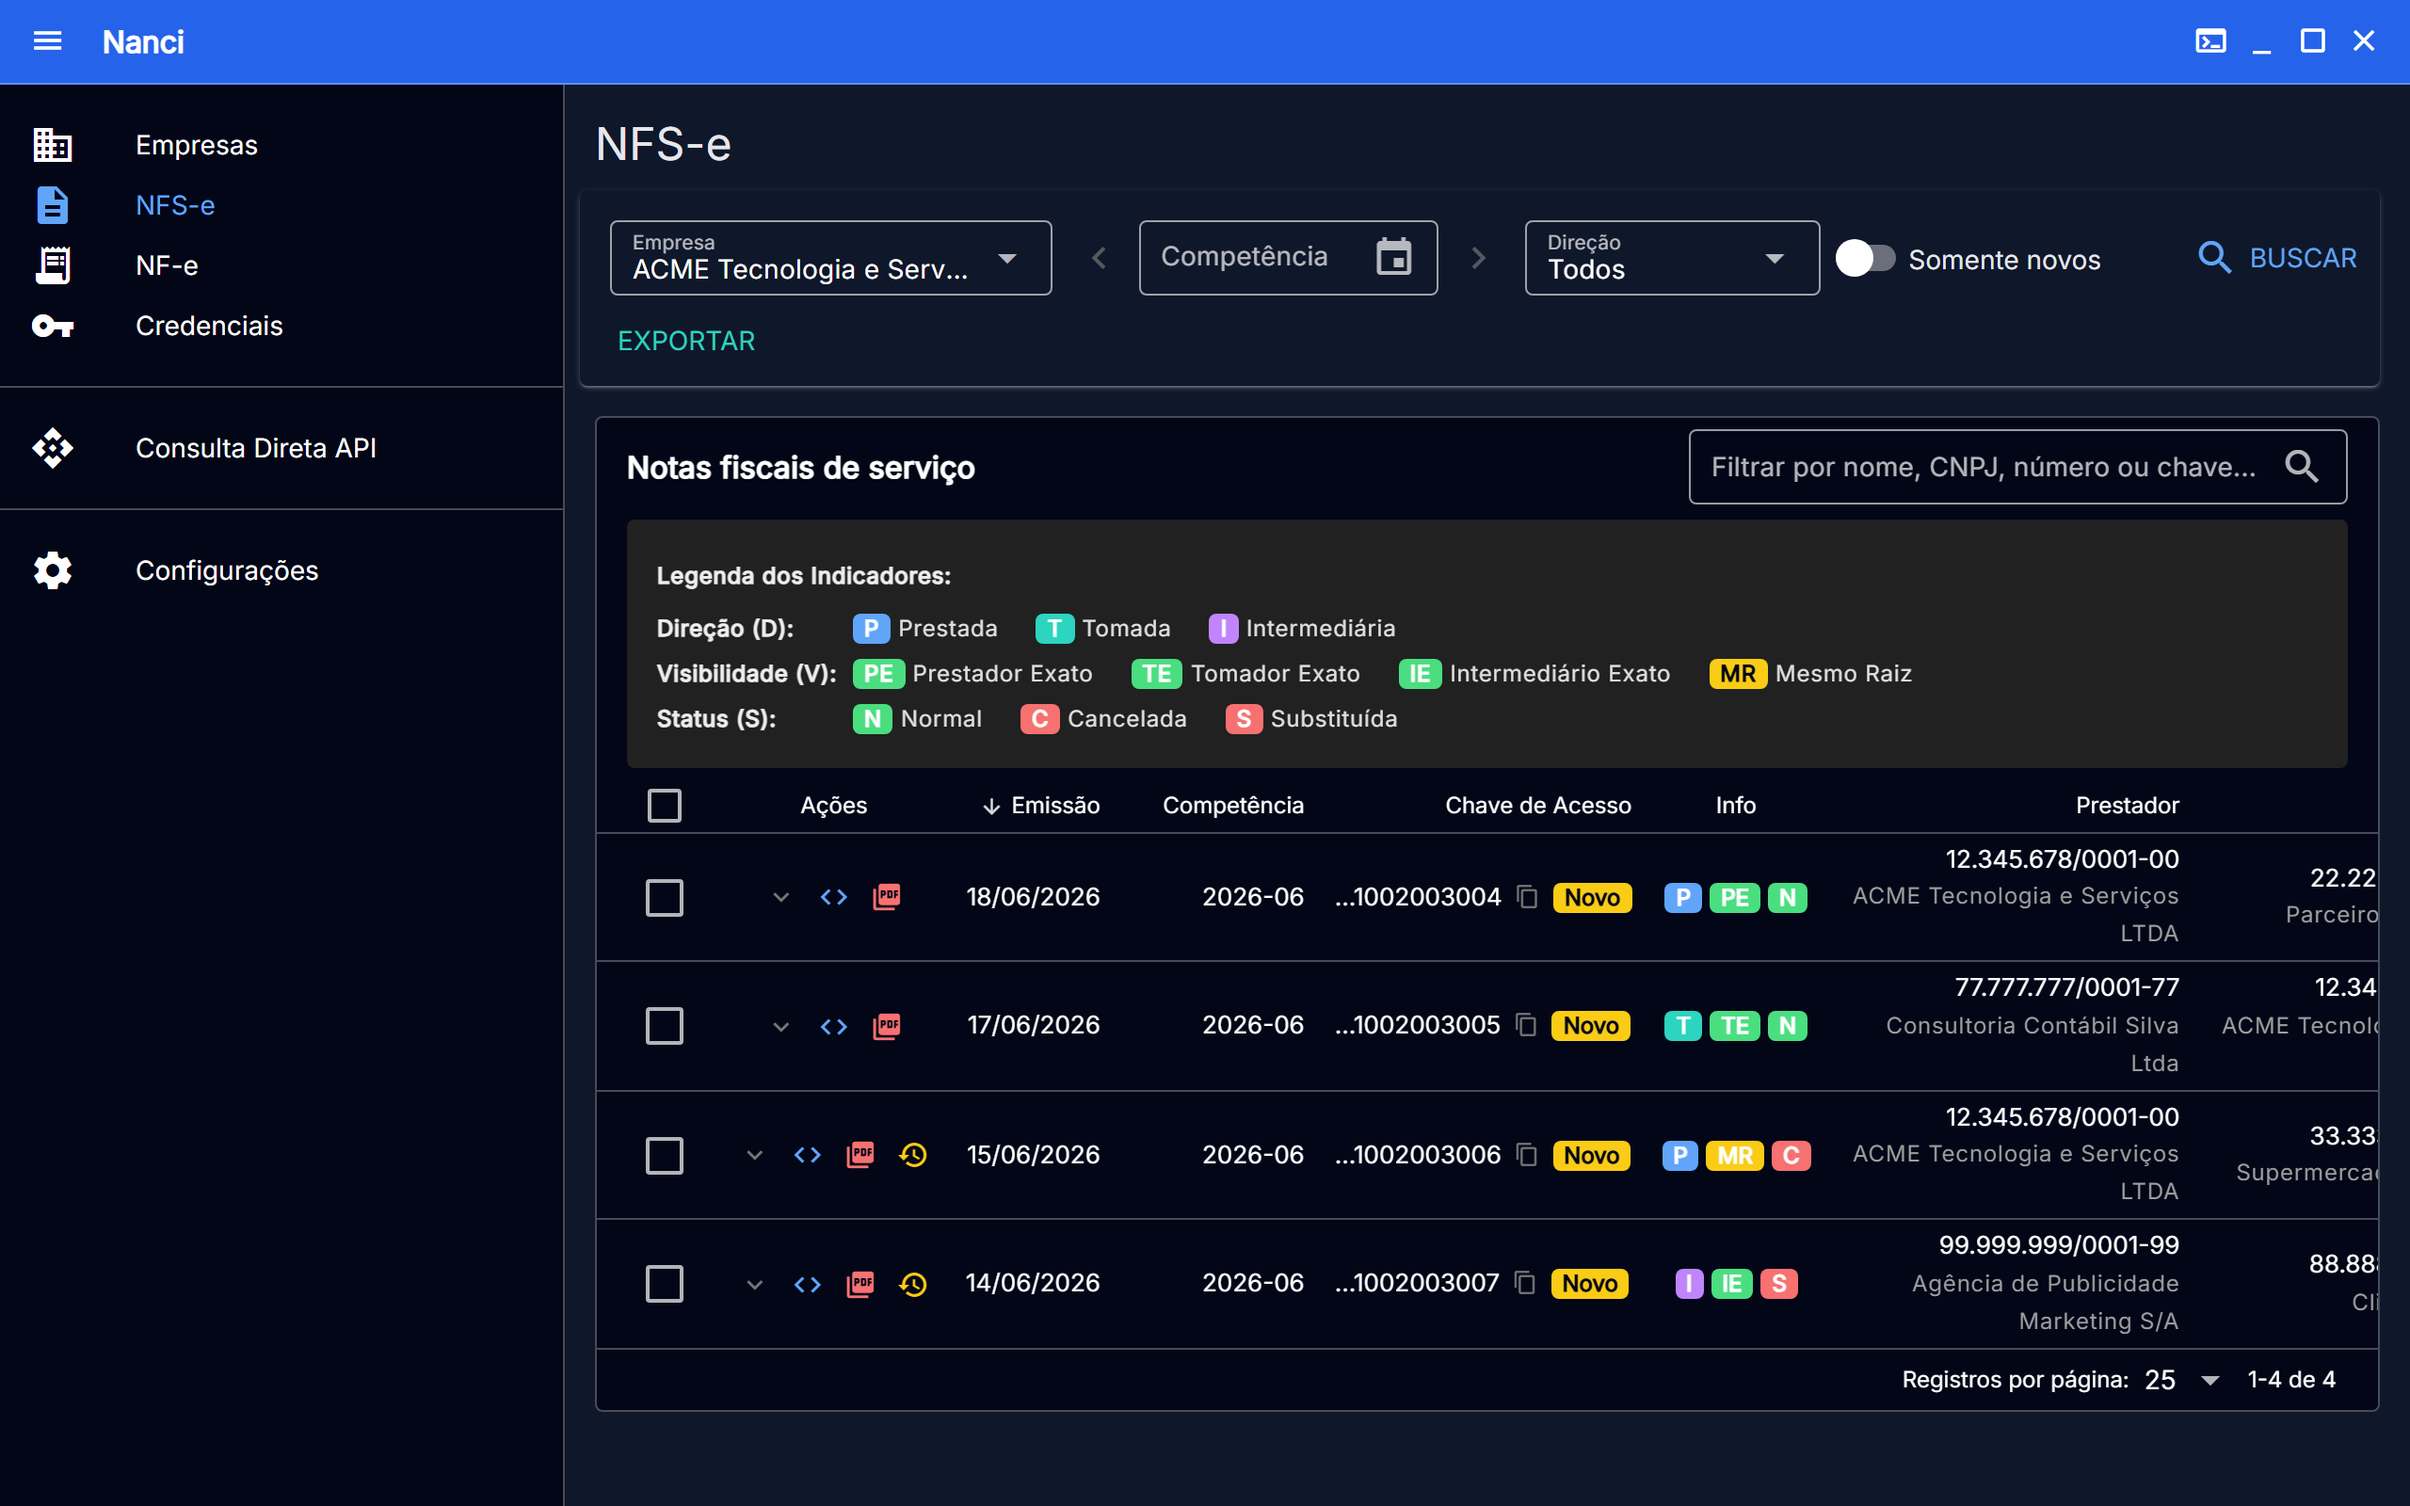
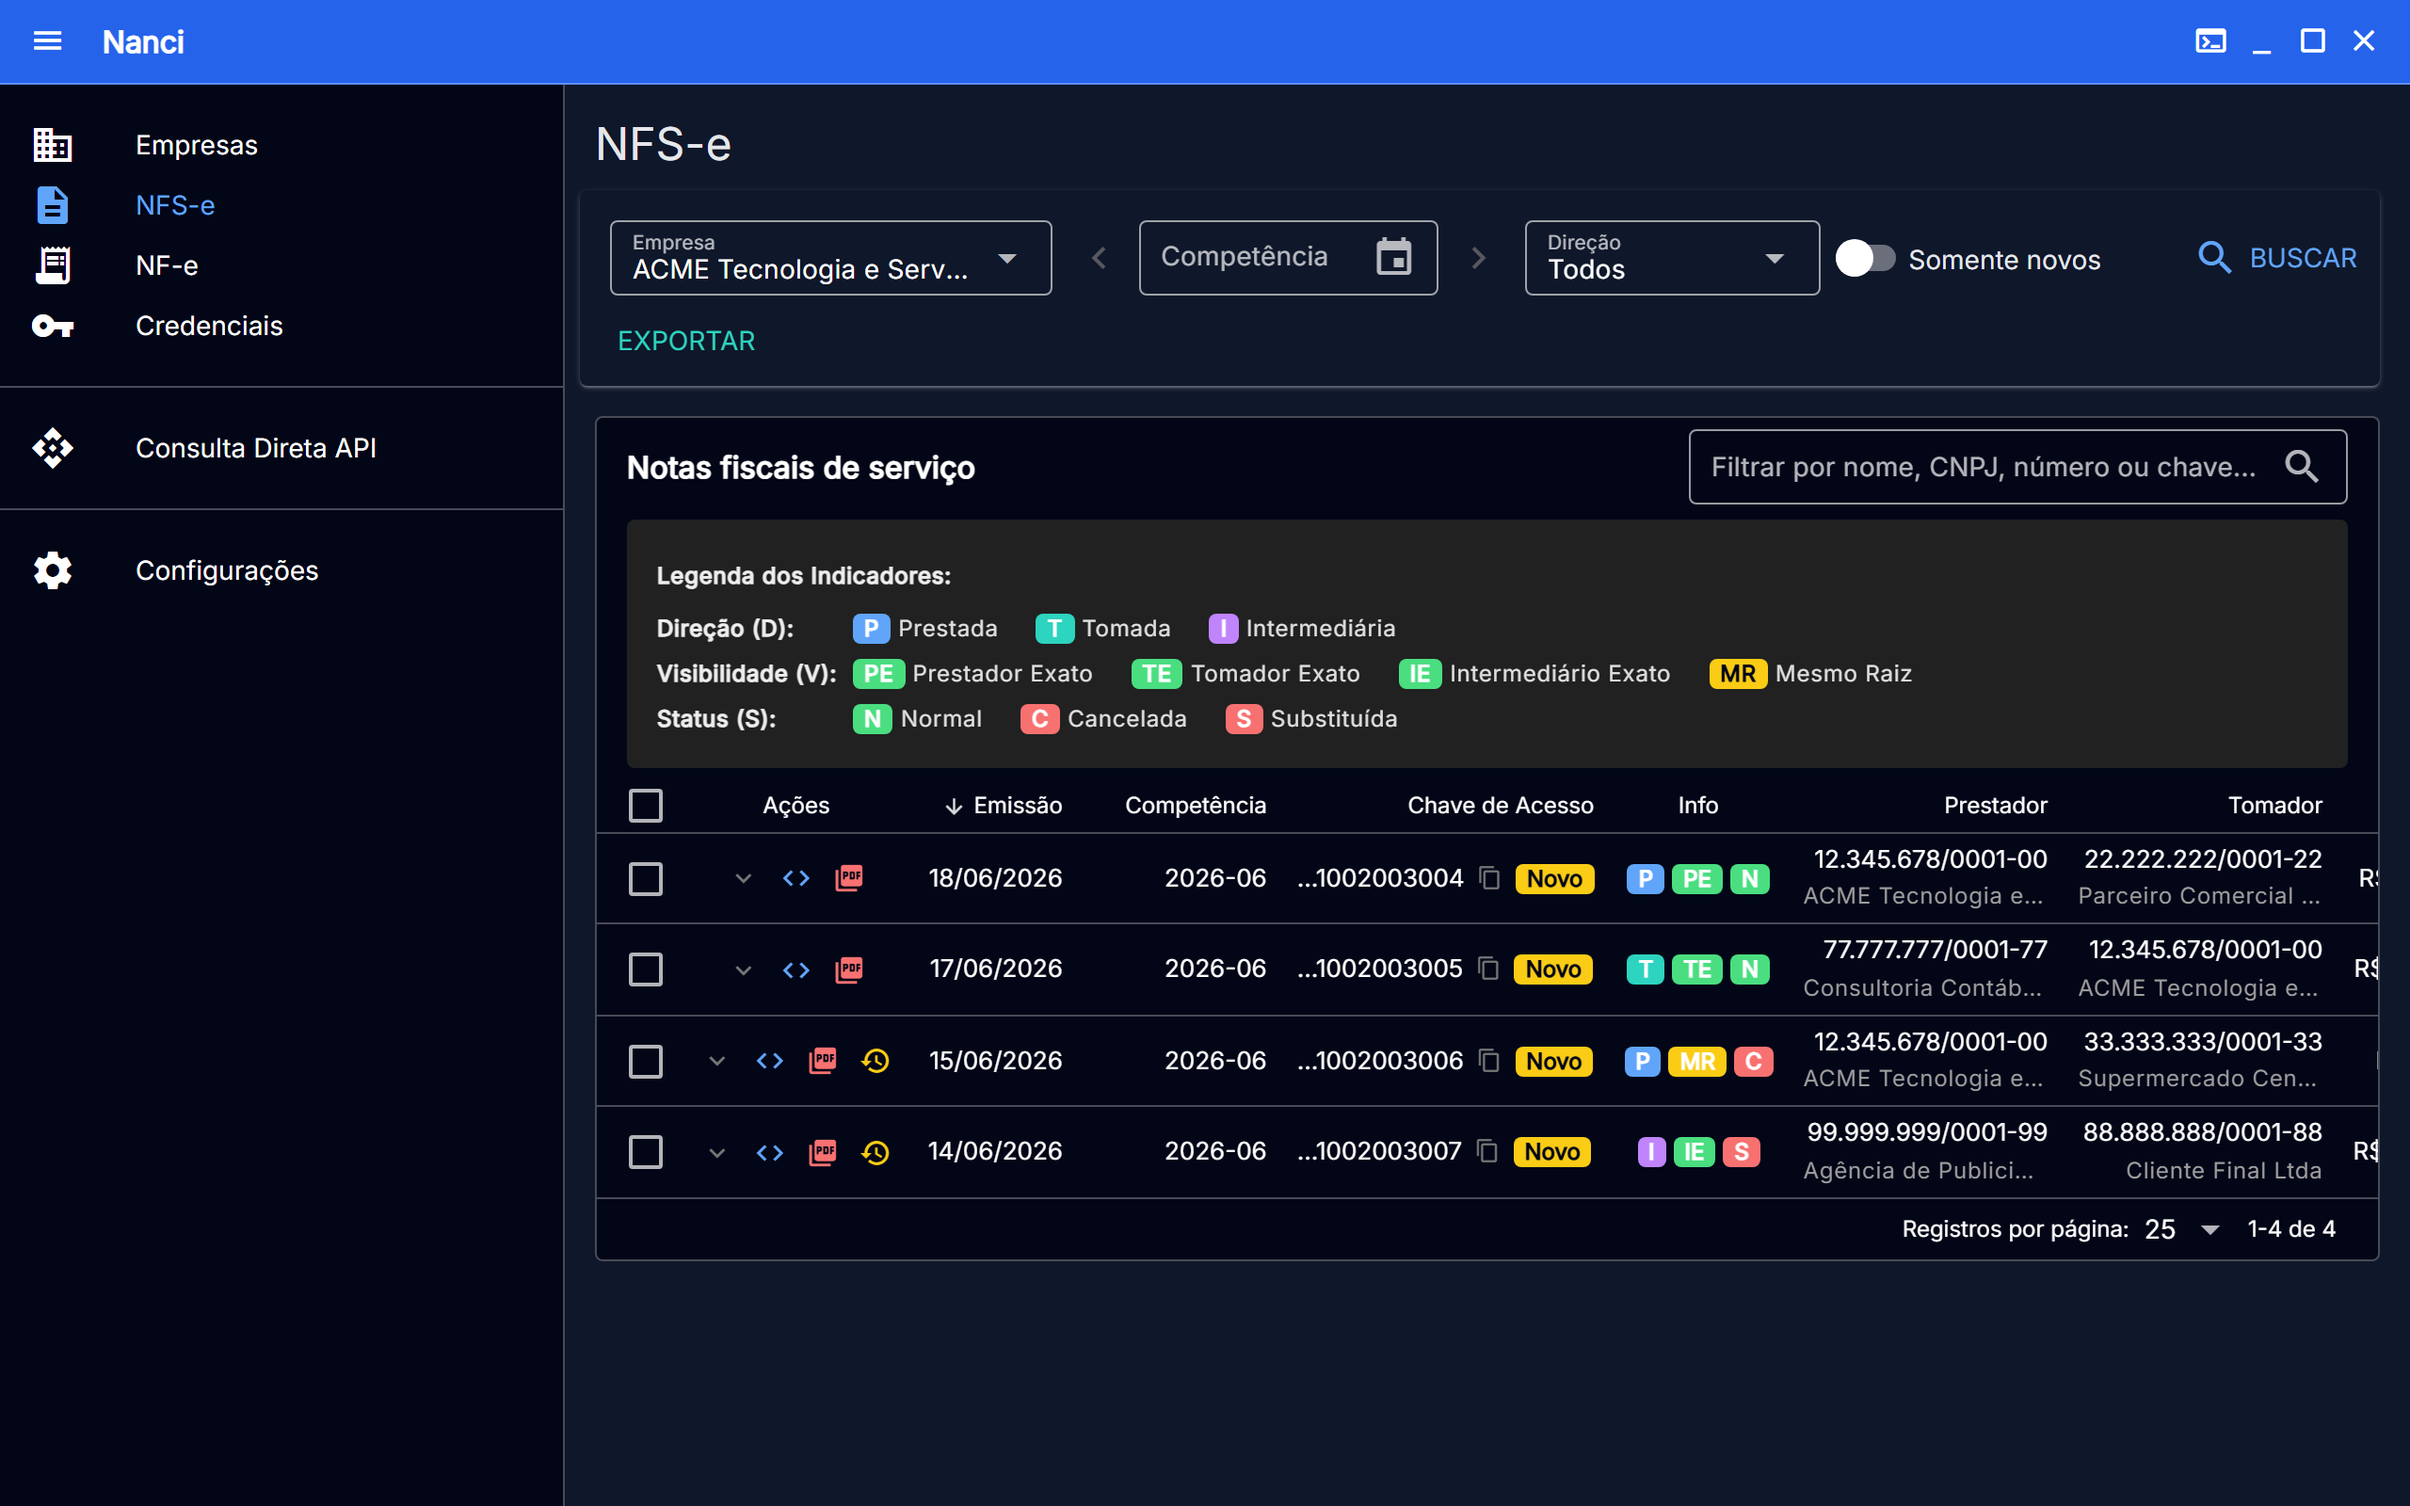
frontend: fit the NFS-e expanded row to the visible table
The expanded details spanned every column, so when the table scrolled
sideways (it does at the default 1280px window) the retenções panel was
cut off on the right. Pin the details to the left edge of the scroll
area and size them to its width (container query unit), so they wrap
inside what the user sees at any window width.

Also narrow the table: partner names are cut with an ellipsis at about
the width of the CNPJ above them (full name stays in the title), and the
row checkbox is dense like the header one. Date columns were already
kept on one line.

Regenerate the NFS-e page screenshots.

diff --git a/internal/desktop/frontend/src/pages/DocumentsPage.vue b/internal/desktop/frontend/src/pages/DocumentsPage.vue
@@ -142,7 +142,7 @@ v-model="filterText" class="document-search-input"
       <template #body="props">
         <q-tr :props="props">
           <q-td auto-width>
-            <q-checkbox v-model="props.selected" />
+            <q-checkbox v-model="props.selected" dense />
           </q-td>
           <q-td v-for="col in props.cols" :key="col.name" :props="props">
             <template v-if="col.name === 'actions'">
@@ -212,7 +212,7 @@ dense flat round size="xs" color="grey-7" icon="content_copy" title="Copiar Chav
               <div class="text-weight-medium">
                 {{ props.row.PrestadorCNPJ ? formatCpfCnpj(props.row.PrestadorCNPJ) : '-' }}
               </div>
-              <div class="text-caption text-grey-6 partner-name" :title="props.row.PrestadorName || ''">
+              <div class="text-caption text-grey-6 ellipsis partner-name" :title="props.row.PrestadorName || ''">
                 {{ props.row.PrestadorName || '-' }}
               </div>
             </template>
@@ -221,7 +221,7 @@ dense flat round size="xs" color="grey-7" icon="content_copy" title="Copiar Chav
               <div class="text-weight-medium">
                 {{ props.row.TomadorCNPJ ? formatCpfCnpj(props.row.TomadorCNPJ) : '-' }}
               </div>
-              <div class="text-caption text-grey-6 partner-name" :title="props.row.TomadorName || ''">
+              <div class="text-caption text-grey-6 ellipsis partner-name" :title="props.row.TomadorName || ''">
                 {{ props.row.TomadorName || '-' }}
               </div>
             </template>
@@ -235,78 +235,80 @@ dense flat round size="xs" color="grey-7" icon="content_copy" title="Copiar Chav
         </q-tr>
 
         <q-tr v-if="props.expand" :props="props" :class="['detail-container-borders', $q.dark.isActive ? 'bg-grey-10' : 'bg-grey-1']">
-          <q-td :colspan="props.cols.length + 1" class="q-pa-md document-detail-cell">
-            <div class="row q-col-gutter-md">
-              <div class="col-12 col-md-7">
-                <div class="text-subtitle2 text-primary q-mb-xs">
-                  Dados do Serviço
-                </div>
-
-                <div class="row q-col-gutter-sm text-body2">
-                  <div class="col-6">
-                    <span class="text-weight-bold">Número da NFSe:</span>
-                    {{ props.row.NFSeNumber || 'N/A' }}
+          <q-td :colspan="props.cols.length + 1" class="document-detail-cell">
+            <div class="document-detail q-pa-md">
+              <div class="row q-col-gutter-md">
+                <div class="col-12 col-md-7">
+                  <div class="text-subtitle2 text-primary q-mb-xs">
+                    Dados do Serviço
                   </div>
 
-                  <div class="col-6">
-                    <span class="text-weight-bold">Versão Layout:</span>
-                    {{ props.row.LayoutVersion || 'N/A' }}
+                  <div class="row q-col-gutter-sm text-body2">
+                    <div class="col-6">
+                      <span class="text-weight-bold">Número da NFSe:</span>
+                      {{ props.row.NFSeNumber || 'N/A' }}
+                    </div>
+
+                    <div class="col-6">
+                      <span class="text-weight-bold">Versão Layout:</span>
+                      {{ props.row.LayoutVersion || 'N/A' }}
+                    </div>
+                  </div>
+
+                  <div class="q-mt-sm">
+                    <span class="text-weight-bold text-body2">Descrição do Serviço:</span>
+                    <div
+                      :class="['q-mt-xs q-pa-sm text-body2 shadow-1 rounded-borders service-description custom-border-solid', $q.dark.isActive ? 'bg-grey-9 text-grey-4' : 'bg-white text-grey-8']">
+                      {{ props.row.ServiceDescription || 'Sem descrição.' }}
+                    </div>
                   </div>
                 </div>
 
-                <div class="q-mt-sm">
-                  <span class="text-weight-bold text-body2">Descrição do Serviço:</span>
-                  <div
-                    :class="['q-mt-xs q-pa-sm text-body2 shadow-1 rounded-borders service-description custom-border-solid', $q.dark.isActive ? 'bg-grey-9 text-grey-4' : 'bg-white text-grey-8']">
-                    {{ props.row.ServiceDescription || 'Sem descrição.' }}
+                <div class="col-12 col-md-5">
+                  <div class="text-subtitle2 text-primary q-mb-xs">
+                    Retenções e Tributos
                   </div>
-                </div>
-              </div>
 
-              <div class="col-12 col-md-5">
-                <div class="text-subtitle2 text-primary q-mb-xs">
-                  Retenções e Tributos
-                </div>
+                  <div :class="['q-pa-md shadow-1 rounded-borders custom-border-solid', $q.dark.isActive ? 'bg-grey-9 text-grey-4' : 'bg-white text-grey-8']">
+                    <div class="row q-col-gutter-xs text-body2">
+                      <div :class="['col-6', $q.dark.isActive ? 'text-grey-5' : 'text-grey-7']">ISS Retido:</div>
+                      <div class="col-6 text-right text-weight-medium">
+                        {{ formatCurrencyCents(props.row.ISSValue) }}
+                      </div>
 
-                <div :class="['q-pa-md shadow-1 rounded-borders custom-border-solid', $q.dark.isActive ? 'bg-grey-9 text-grey-4' : 'bg-white text-grey-8']">
-                  <div class="row q-col-gutter-xs text-body2">
-                    <div :class="['col-6', $q.dark.isActive ? 'text-grey-5' : 'text-grey-7']">ISS Retido:</div>
-                    <div class="col-6 text-right text-weight-medium">
-                      {{ formatCurrencyCents(props.row.ISSValue) }}
-                    </div>
+                      <div :class="['col-6', $q.dark.isActive ? 'text-grey-5' : 'text-grey-7']">IRRF:</div>
+                      <div class="col-6 text-right text-weight-medium">
+                        {{ formatCurrencyCents(props.row.IRRFValue) }}
+                      </div>
 
-                    <div :class="['col-6', $q.dark.isActive ? 'text-grey-5' : 'text-grey-7']">IRRF:</div>
-                    <div class="col-6 text-right text-weight-medium">
-                      {{ formatCurrencyCents(props.row.IRRFValue) }}
-                    </div>
+                      <div :class="['col-6', $q.dark.isActive ? 'text-grey-5' : 'text-grey-7']">INSS:</div>
+                      <div class="col-6 text-right text-weight-medium">
+                        {{ formatCurrencyCents(props.row.INSSValue) }}
+                      </div>
 
-                    <div :class="['col-6', $q.dark.isActive ? 'text-grey-5' : 'text-grey-7']">INSS:</div>
-                    <div class="col-6 text-right text-weight-medium">
-                      {{ formatCurrencyCents(props.row.INSSValue) }}
-                    </div>
+                      <div :class="['col-6', $q.dark.isActive ? 'text-grey-5' : 'text-grey-7']">PIS:</div>
+                      <div class="col-6 text-right text-weight-medium">
+                        {{ formatCurrencyCents(props.row.PISValue) }}
+                      </div>
 
-                    <div :class="['col-6', $q.dark.isActive ? 'text-grey-5' : 'text-grey-7']">PIS:</div>
-                    <div class="col-6 text-right text-weight-medium">
-                      {{ formatCurrencyCents(props.row.PISValue) }}
-                    </div>
+                      <div :class="['col-6', $q.dark.isActive ? 'text-grey-5' : 'text-grey-7']">COFINS:</div>
+                      <div class="col-6 text-right text-weight-medium">
+                        {{ formatCurrencyCents(props.row.COFINSValue) }}
+                      </div>
 
-                    <div :class="['col-6', $q.dark.isActive ? 'text-grey-5' : 'text-grey-7']">COFINS:</div>
-                    <div class="col-6 text-right text-weight-medium">
-                      {{ formatCurrencyCents(props.row.COFINSValue) }}
-                    </div>
+                      <div :class="['col-6', $q.dark.isActive ? 'text-grey-5' : 'text-grey-7']">CSLL:</div>
+                      <div class="col-6 text-right text-weight-medium">
+                        {{ formatCurrencyCents(props.row.CSLLValue) }}
+                      </div>
 
-                    <div :class="['col-6', $q.dark.isActive ? 'text-grey-5' : 'text-grey-7']">CSLL:</div>
-                    <div class="col-6 text-right text-weight-medium">
-                      {{ formatCurrencyCents(props.row.CSLLValue) }}
-                    </div>
+                      <q-separator class="col-12 q-my-xs" />
 
-                    <q-separator class="col-12 q-my-xs" />
-
-                    <div class="col-6 text-weight-bold text-primary">
-                      Total Retenções:
-                    </div>
-                    <div class="col-6 text-right text-weight-bold text-primary">
-                      {{ formatCurrencyCents(props.row.TotalRetentions) }}
+                      <div class="col-6 text-weight-bold text-primary">
+                        Total Retenções:
+                      </div>
+                      <div class="col-6 text-right text-weight-bold text-primary">
+                        {{ formatCurrencyCents(props.row.TotalRetentions) }}
+                      </div>
                     </div>
                   </div>
                 </div>
@@ -733,14 +735,29 @@ function openEventsDialog(documentId?: string) {
   table-layout: auto;
 }
 
-/* Values stay on one line and the table scrolls sideways; only the partner
-   names and the expanded details wrap. */
+/* Values stay on one line and the table scrolls sideways; partner names are
+   cut with an ellipsis and only the expanded details wrap. */
 .documents-table :deep(td) {
   white-space: nowrap;
 }
 
 .documents-table :deep(td.document-detail-cell) {
+  padding: 0;
   white-space: normal;
+}
+
+/* The expanded details span every column, which is wider than the visible
+   table when it scrolls sideways. Size them to the scroll area (100cqw) and
+   pin them to its left edge so they wrap inside what the user sees. */
+.documents-table :deep(.q-table__middle) {
+  container-type: inline-size;
+}
+
+.document-detail {
+  position: sticky;
+  left: 0;
+  width: 100cqw;
+  overflow-wrap: anywhere;
 }
 
 .document-search-input {
@@ -760,11 +777,10 @@ function openEventsDialog(documentId?: string) {
   min-width: 100px;
 }
 
+/* About the width of the formatted CNPJ above it, so the name does not widen
+   the column. The full name is in the title tooltip. */
 .partner-name {
-  min-width: 180px;
-  max-width: 240px;
-  white-space: normal;
-  overflow-wrap: break-word;
+  max-width: 130px;
 }
 
 .service-description {
